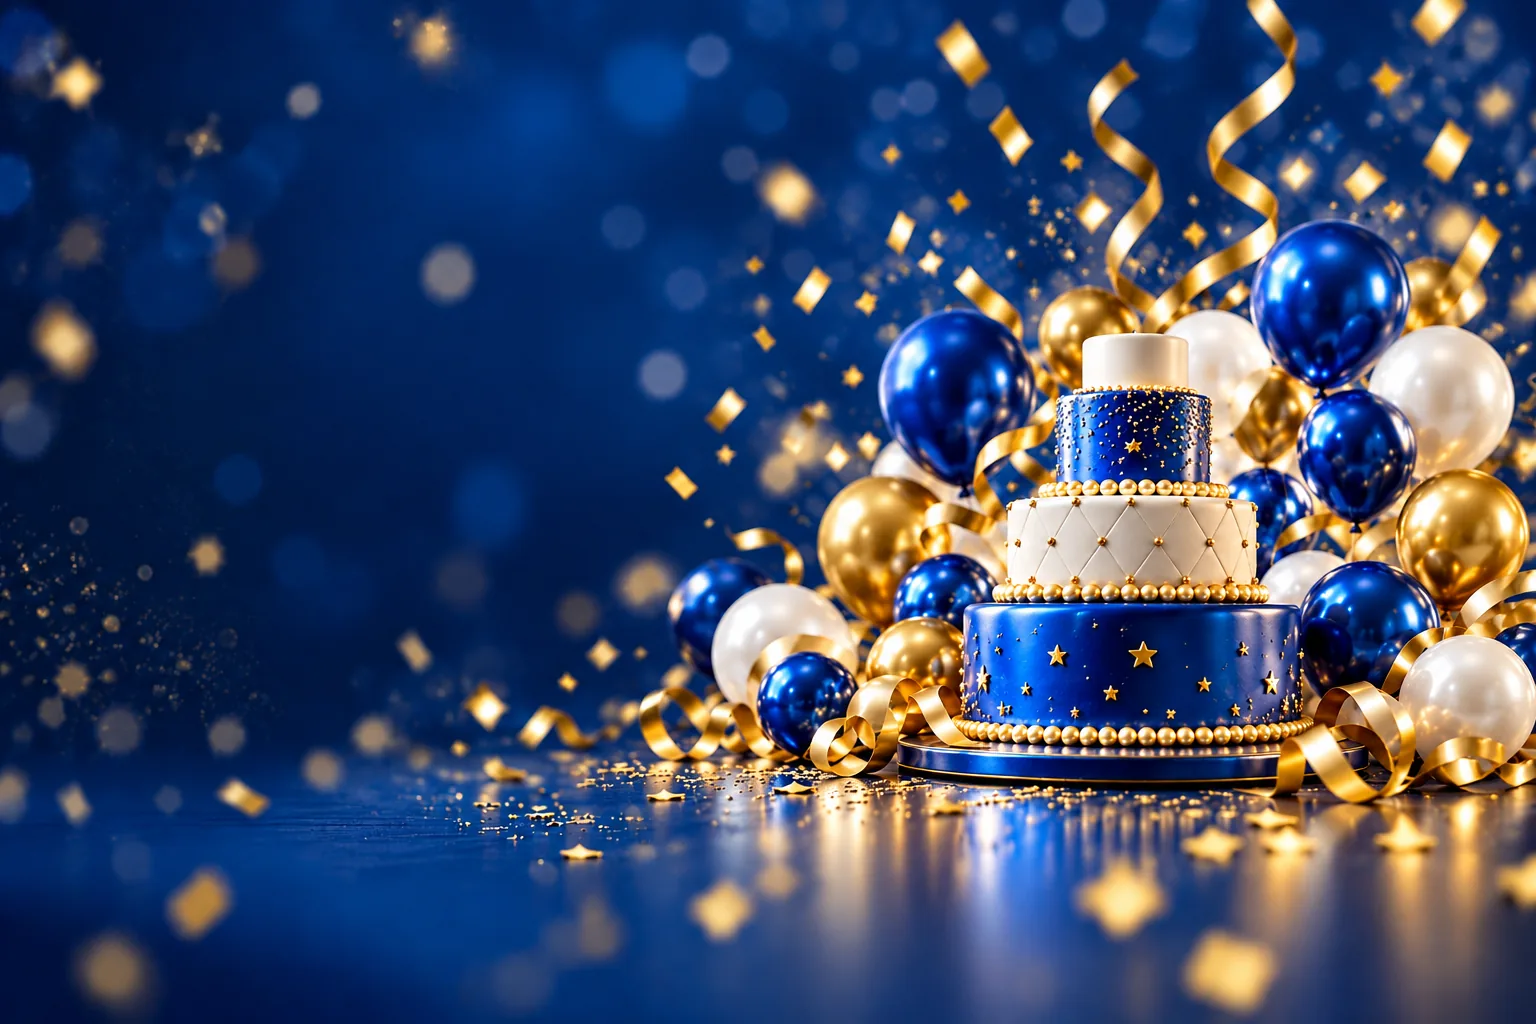
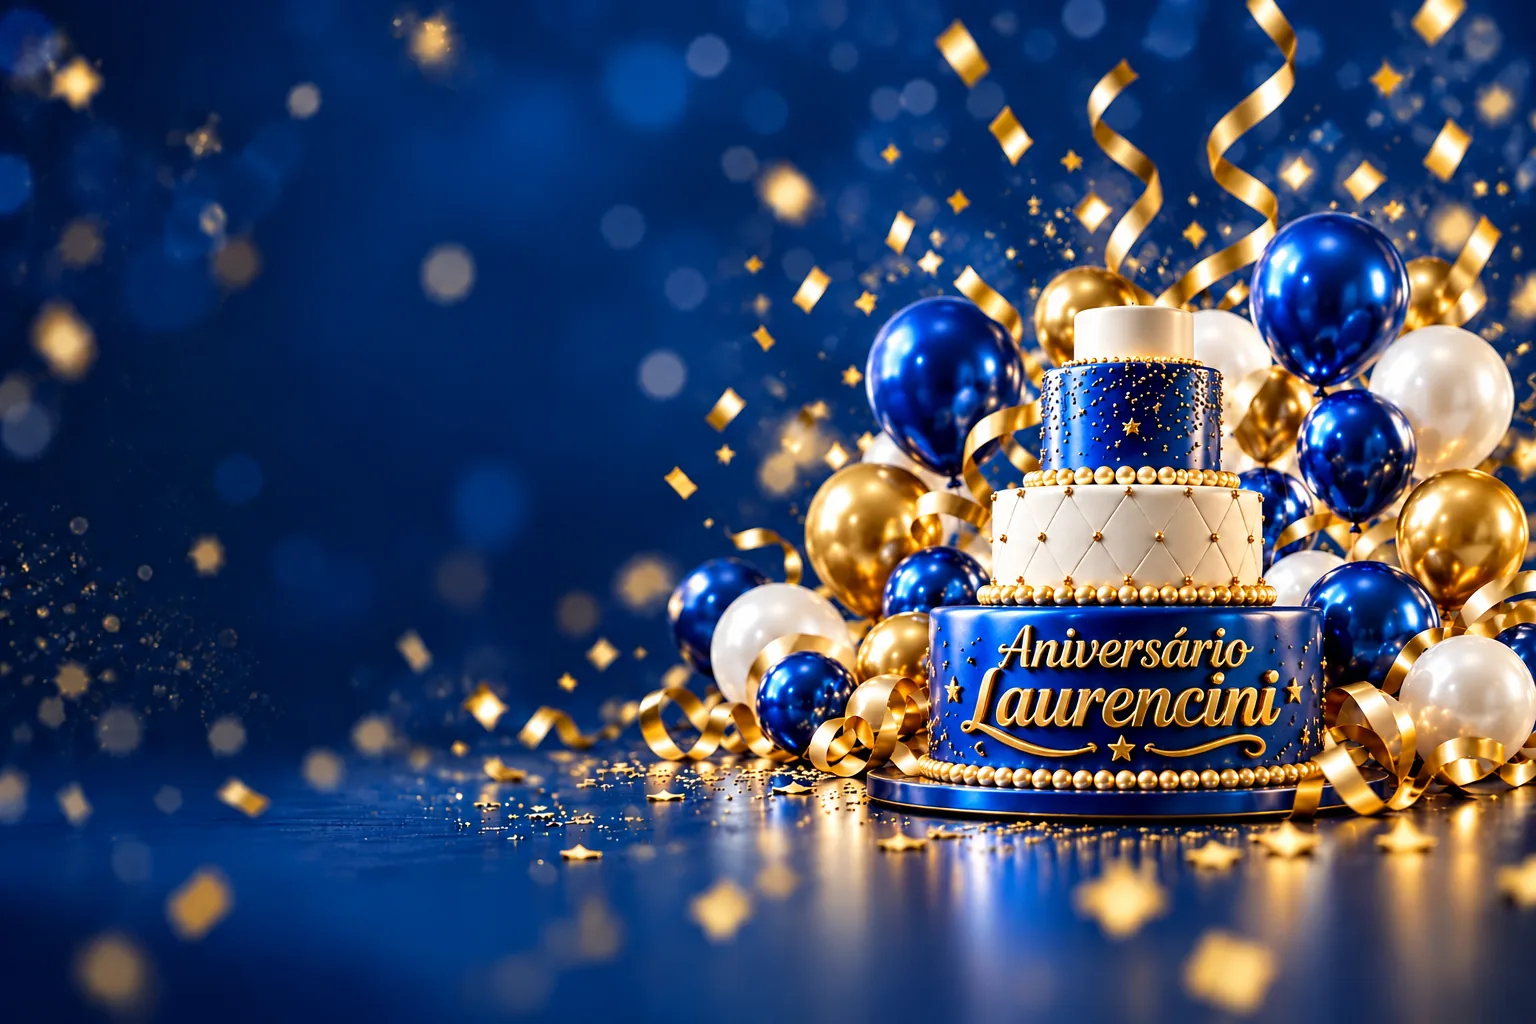
feat(temas): artes finais do GPT-6 Sol nos temas sazonais
Adiciona as dez artes pendentes (guirlanda e borda do Natal, fogos e
ofertas do Ano Novo, etiqueta do Dia das Mães, bolo do Aniversário,
serpentina do Carnaval e faixa, fundo e urso do Dia das Crianças).
A guirlanda do rodapé do Natal vira faixa repetida para não cobrir o texto.

diff --git a/app/themes/natal.css b/app/themes/natal.css
@@ -423,14 +423,15 @@
 .site-v2.v2-theme.theme-natal .v2-footer {
   position: relative;
   isolation: isolate;
-  padding-top: 60px;
+  /* Guirlanda como faixa no topo; o conteúdo começa abaixo dela. */
+  padding-top: 124px;
   border-top: 0;
   border-bottom: 3px solid #a87527;
   background-color: #001c13;
   background-image: var(--natal-garland);
   background-position: center top;
-  background-size: 100% auto;
-  background-repeat: no-repeat;
+  background-size: auto 100px;
+  background-repeat: repeat-x;
   color: #ffffff;
 }
 
@@ -718,8 +719,8 @@
   }
 
   .site-v2.v2-theme.theme-natal .v2-footer {
-    padding-top: 42px;
-    background-size: auto 30px;
+    padding-top: 84px;
+    background-size: auto 64px;
   }
 
   .site-v2.v2-theme.theme-natal .v2-footer-grid {

diff --git a/app/themes/dia-das-maes.css b/app/themes/dia-das-maes.css
@@ -19,7 +19,7 @@
   --t-ink: #2d1424;
   --t-muted: #65505c;
   --t-icon: "♥";
-  --t-hero: url("/themes/dia-das-maes.webp");
+  --t-hero: url("/themes/dia-das-maes-etiqueta.webp");
   --t-panel: url("/themes/dia-das-maes-painel.webp");
 
   --v2-width: min(1840px, calc(100% - 2 * clamp(16px, 5vw, 96px)));
